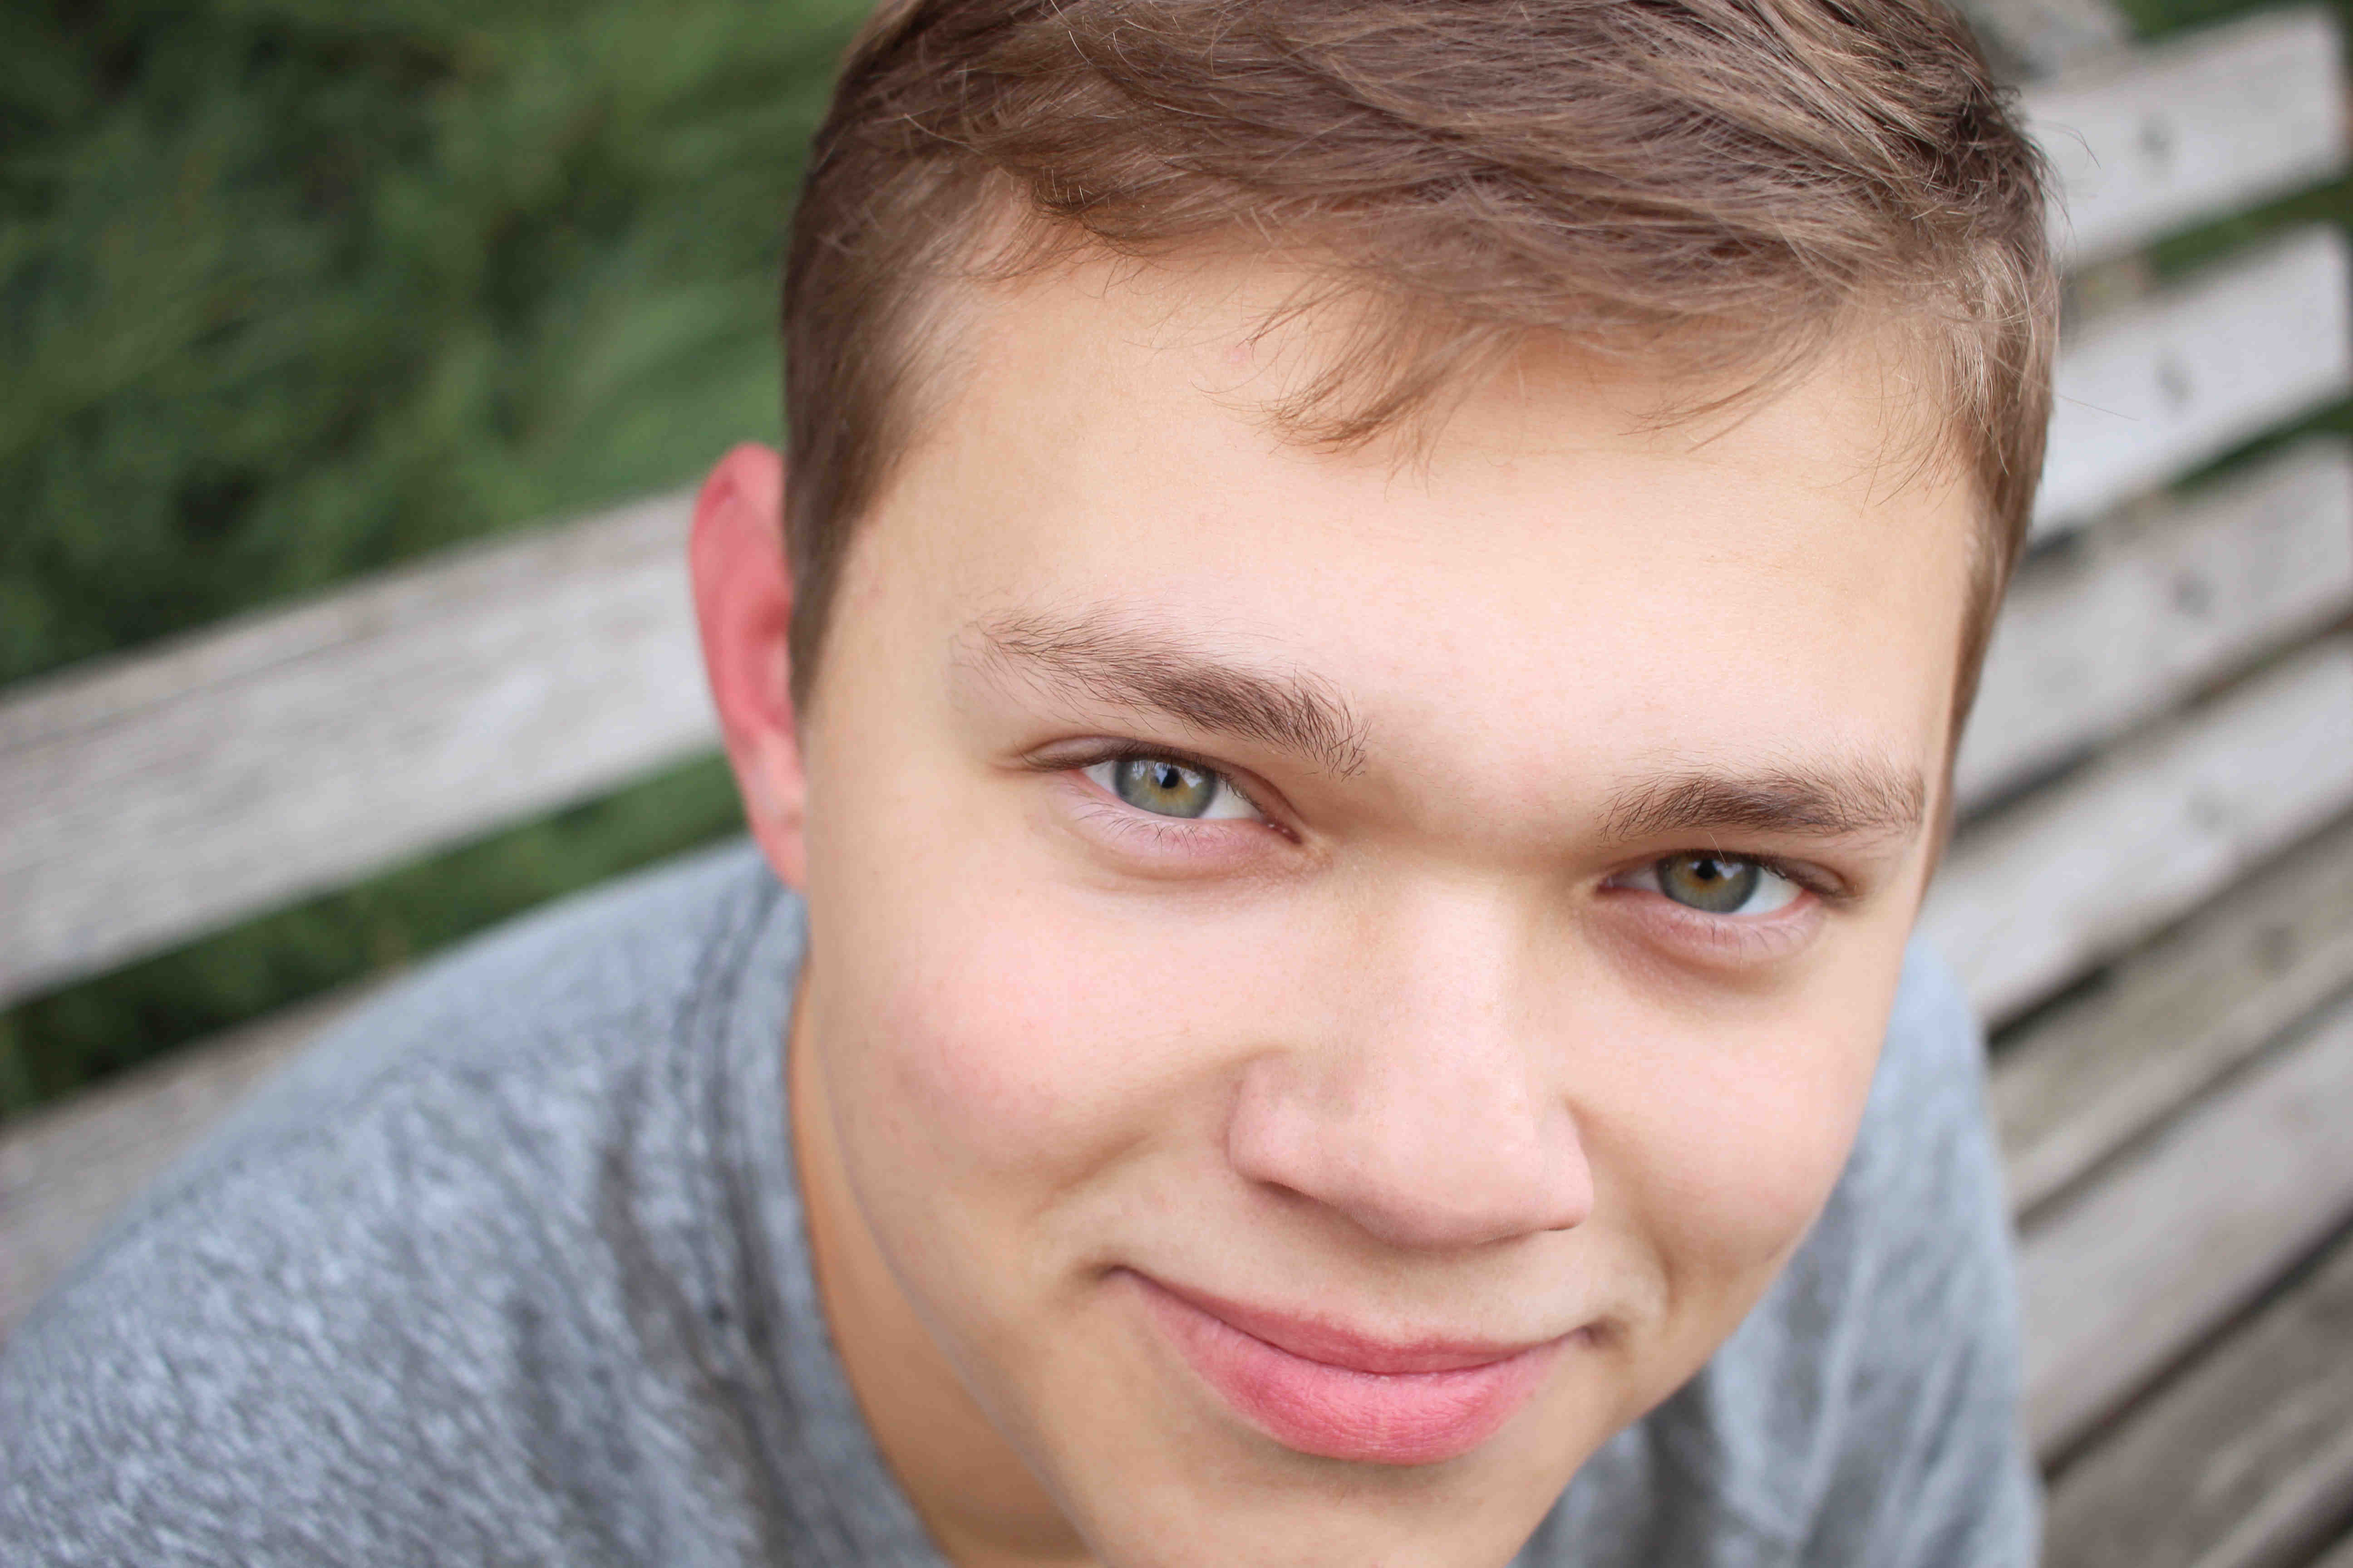
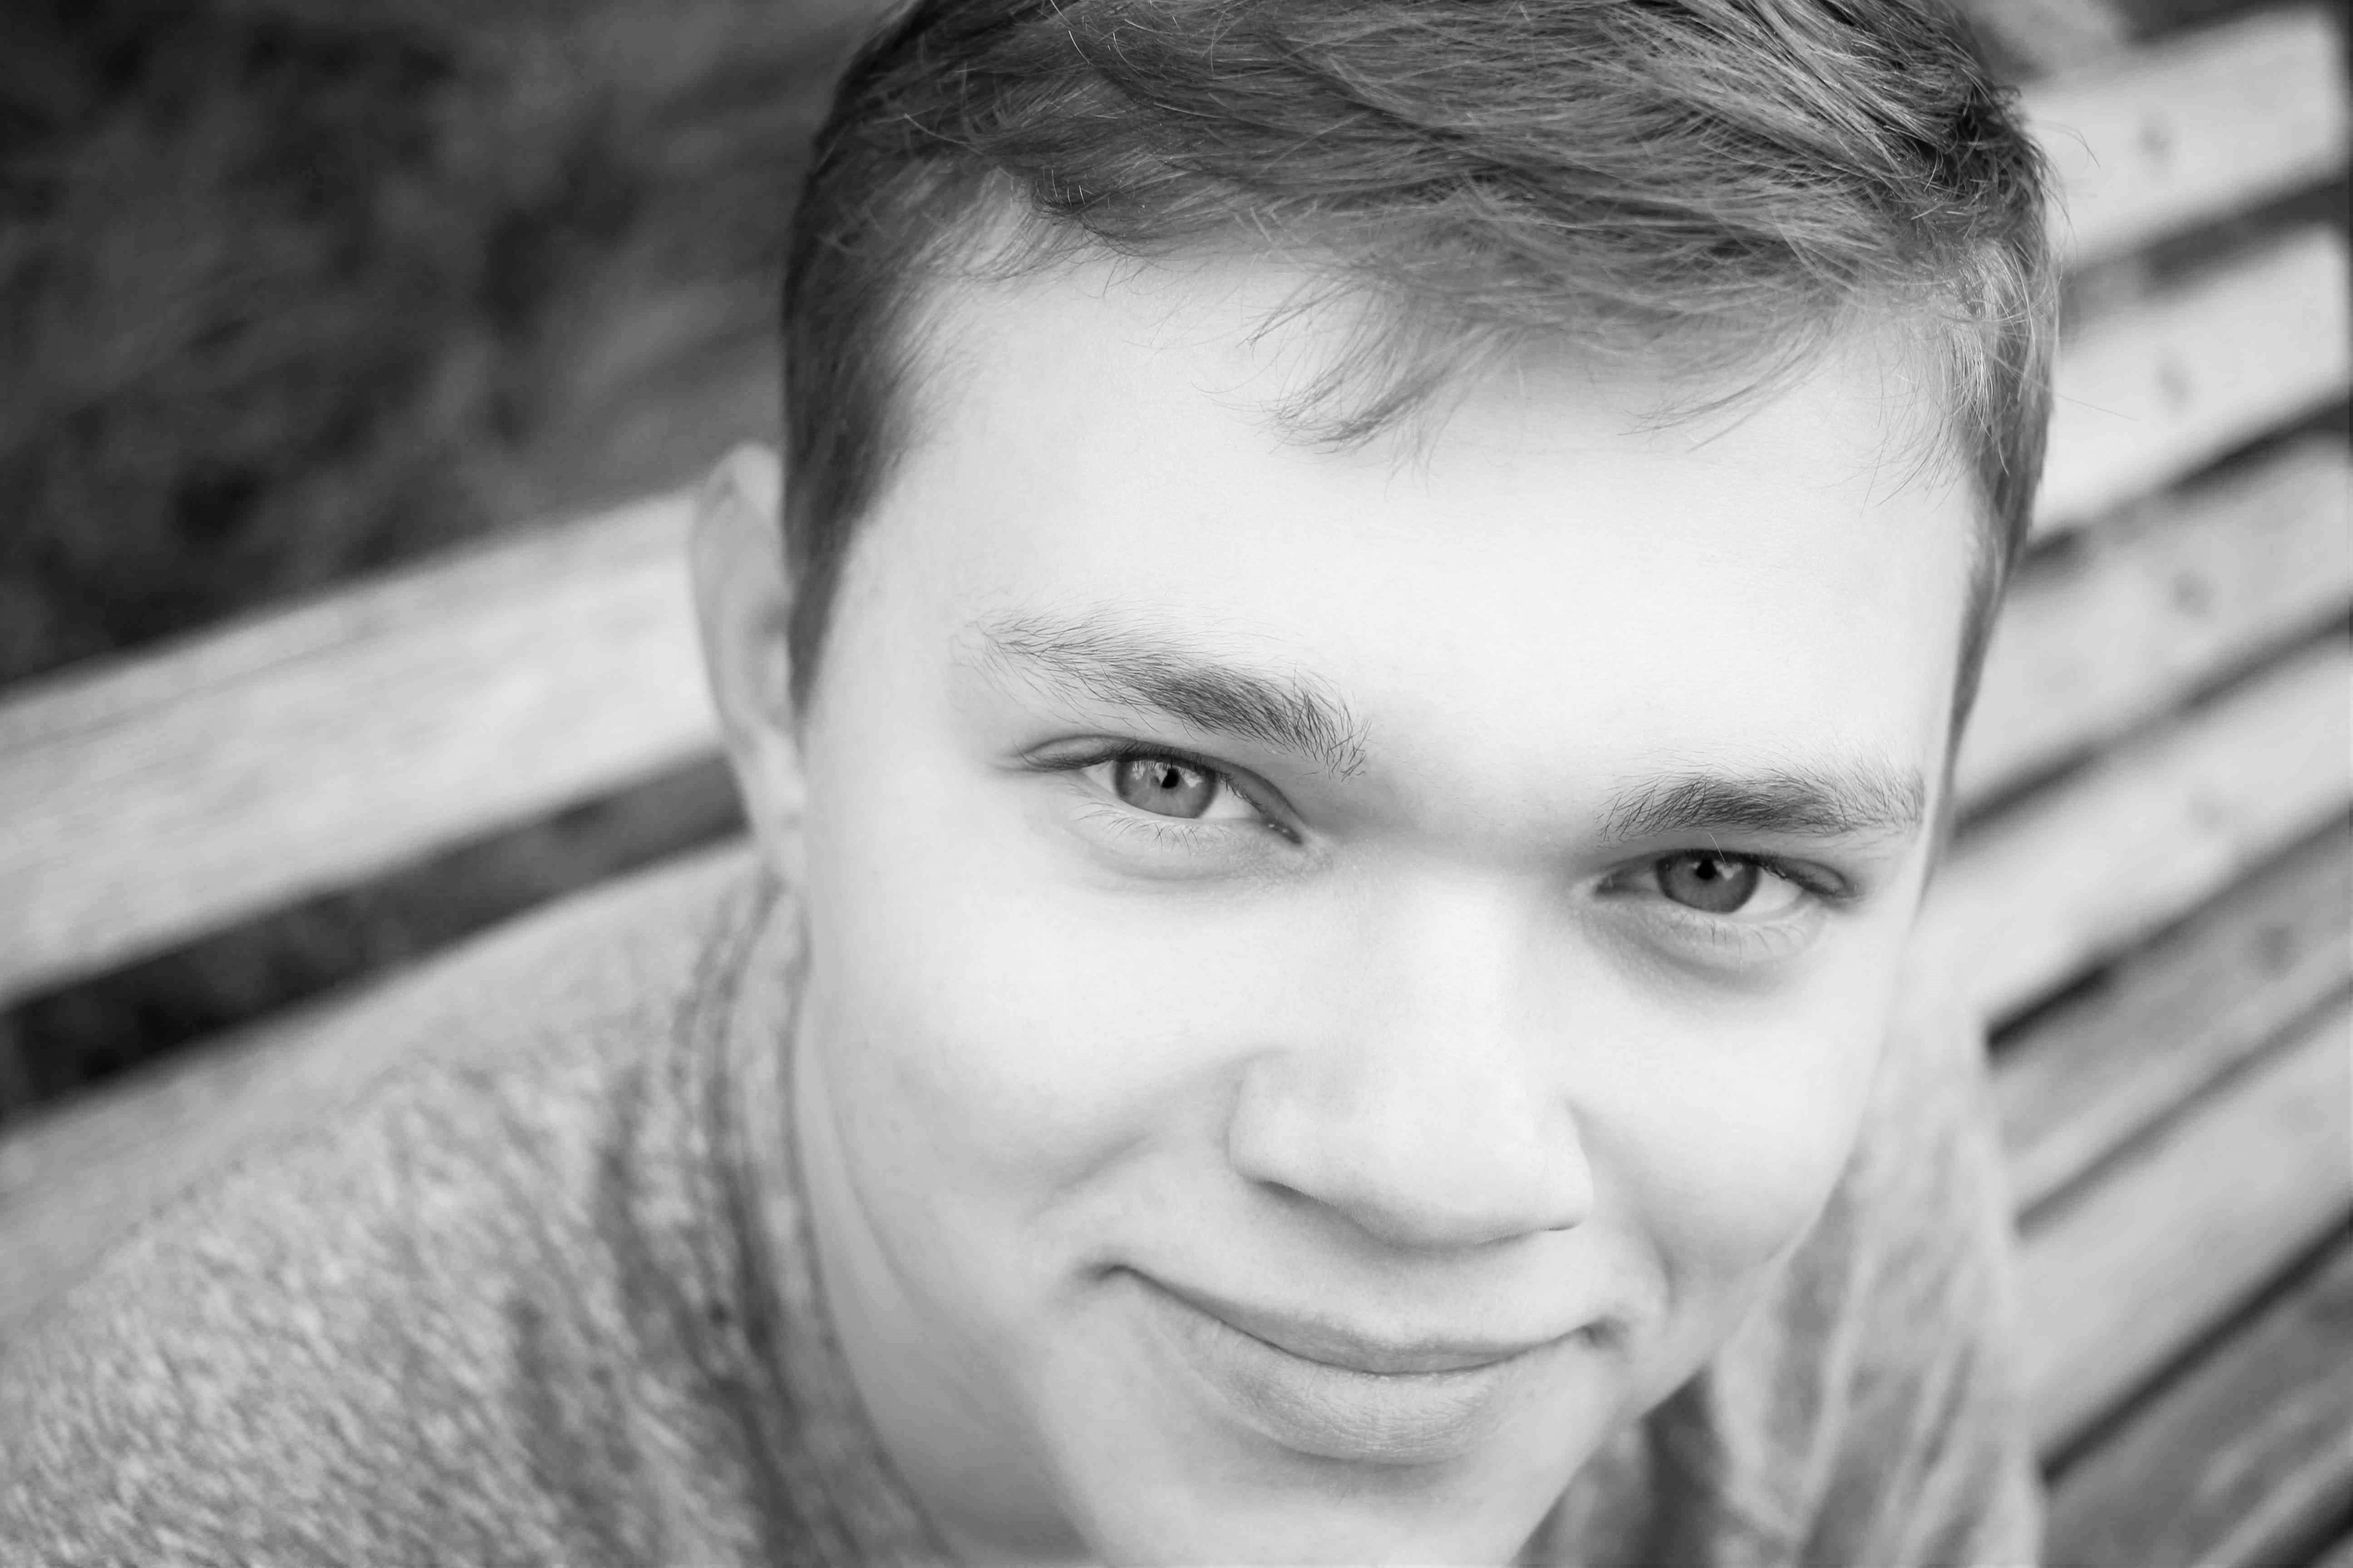
new background

diff --git a/css/style.css b/css/style.css
@@ -1,10 +1,15 @@
-body {background-image: url(../img/textured_paper.png)}
-h1 {color: #8c8577; text-align: center; font-size: 14rem; font-family: 'Amatic SC', cursive;}
-h3 {color: #8c8577; text-align: center; font-size: 7rem; font-family: 'Amatic SC', cursive; padding: 4rem;}
-a:link {color: #8c8577; text-align: center;font-size: 4rem;padding-top: 10rem; font-family: 'Amatic SC', cursive; padding: 4rem; text-decoration: none;transition: all 1s;}
-a:visited {color: #8c8577; text-align: center; font-size: 4rem; font-family: 'Amatic SC', cursive; padding: 4rem; text-decoration: none;transition: all 1s;}
+body {background-image: url(../img/me2.jpg);
+  background-size:100% 100%;
+  background-repeat: no-repeat;
+  background-position: right top;
+  background-attachment: fixed;
+}
+h1 {color: white; text-align: center; font-size: 14rem; font-family: 'Amatic SC', cursive;}
+h3 {color: white; text-align: center; font-size: 7rem; font-family: 'Amatic SC', cursive; padding: 4rem;}
+a:link {color: white; text-align: center;font-size: 4rem;padding-top: 10rem; font-family: 'Amatic SC', cursive; padding: 4rem; text-decoration: none;transition: all 1s;}
+a:visited {color: white; text-align: center; font-size: 4rem; font-family: 'Amatic SC', cursive; padding: 4rem; text-decoration: none;transition: all 1s;}
 a:hover {color: #00C1FF; text-align: center; font-size: 5rem; font-family: 'Amatic SC', cursive; padding: 4rem; padding-left: 11rem; text-decoration: none; transition: all 1s; }
-p {color: #8c8577; text-align: center; font-size: 5rem; font-family: 'Amatic SC', cursive;}
-li{color: #8c8577; text-align: center; font-size: 4rem; font-family: 'Amatic SC', cursive;}
+p {color: white; text-align: center; font-size: 4rem; font-family: 'Amatic SC', cursive; background-color:rgba(0,0,0,0.6);}
+li{color: white; text-align: center; font-size: 4rem; font-family: 'Amatic SC', cursive;}
 button{background-color:#8c8577;font-family: 'Amatic SC', cursive; font-size: 3rem; transition: all 1s; }
 button:hover {color: #00C1FF; text-align: center; font-size: 4rem;font-family: 'Amatic SC', cursive;transition: all 1s; }

diff --git a/experence.html b/experence.html
@@ -37,11 +37,29 @@
       </article>
     </div>
     <div class="row">
-        <a href="index.html" class="three columns">Home</a>
-          <a href="about.html" class="three columns">About</a>
-            <a href="causes.html" class="three columns">Causes</a>
-              <a href="contact.html" class="three columns">Contact</a>
+        <a href="about.html" class="two columns">About</a>
+          <a href="experence.html" class="two columns">Experience</a>
+            <a href="causes.html" class="two columns">Causes</a>
+              <a href="contact.html" class="two columns">Contact</a>
     </div>
+
+<div class="row">
+  <h3 class="twelve columns" id = "experence"> My experience </h3>
+  <hr></hr>
+</div>
+
+<div class="row">
+  <article class="twelve columns" >
+<p> Until the summer of 2016 I was the Ministry Leader of Audio at the Northside Church of Christ in Spokane
+  Washington as well as a worship leader. For the past year I worked as a Sound and Recording Engineer for a local band. Since
+  moving to Oklahoma I've been working at Chick-fil-a and with on-campus events including Freshman
+  Fanfare and Ben Rector's concert.
+</p>
+</article>
+</div>
+
+
+
 
 <!-- End Document
   –––––––––––––––––––––––––––––––––––––––––––––––––– -->

diff --git a/about.html b/about.html
@@ -43,6 +43,26 @@
               <a href="contact.html" class="three columns">Contact</a>
     </div>
 
+<div class="row">
+  <article class="six columns" >
+  <h3>A little about me</h3>
+<p> I live in Edmond OK, just outside of Oklahoma City. Right now i'm a freshman at Oklahoma Christian University
+  studying Computer Science. My hobbies include hiking, camping, playing sports with friends, making music, designing circuits
+  and coding.
+</p>
+</article>
+<article class="six columns" >
+<h3>My experence</h3>
+<p>Until the summer of 2016 I was the Ministry Leader of Audio at the Northside Church of Christ in Spokane
+  Washington as well as a worship leader. For the past year I worked as a Sound and Recording Engineer for a local band. Since
+  moving to Oklahoma I've been working at Chick-fil-a and with on-campus events including Freshman
+  Fanfare and Ben Rector's concert.
+</p>
+</article>
+
+</div>
+
+
 <!-- End Document
   –––––––––––––––––––––––––––––––––––––––––––––––––– -->
 </body>

diff --git a/contact.html b/contact.html
@@ -43,6 +43,27 @@
               <a href="contact.html" class="three columns">Contact</a>
     </div>
 
+
+<div class="row">
+  <article class="twelve columns" >
+  <h3 class="twelve columns" id="contact">We should get coffee sometime</h3>
+</article>
+</div>
+
+<form method="POST" action="http://formspree.io/nathan.schrader@eagles.oc.edu">
+<div class="row">
+  <input name="email" placeholder="Your email" type="email" class="twelve columns" > </input>
+  </div>
+  <div class="row">
+      <textarea name="message" placeholder="Your message"class="twelve columns"></textarea>
+    </div>
+    <div class="row">
+        <button type="submit" class="twelve columns">Send</button>
+      </div>
+</form>
+
+
+
 <!-- End Document
   –––––––––––––––––––––––––––––––––––––––––––––––––– -->
 </body>

diff --git a/causes.html b/causes.html
@@ -42,6 +42,22 @@
             <a href="causes.html" class="three columns">Causes</a>
               <a href="contact.html" class="three columns">Contact</a>
     </div>
+    <div class="row">
+      <article class="six columns" >
+      <h3>Important Stuff</h3>
+    </article>
+    <article class="six columns" >
+    <h3>Orginizations I like</h3>
+
+    </article>
+
+    </div>
+
+
+</div>
+
+
+
 
 <!-- End Document
   –––––––––––––––––––––––––––––––––––––––––––––––––– -->
